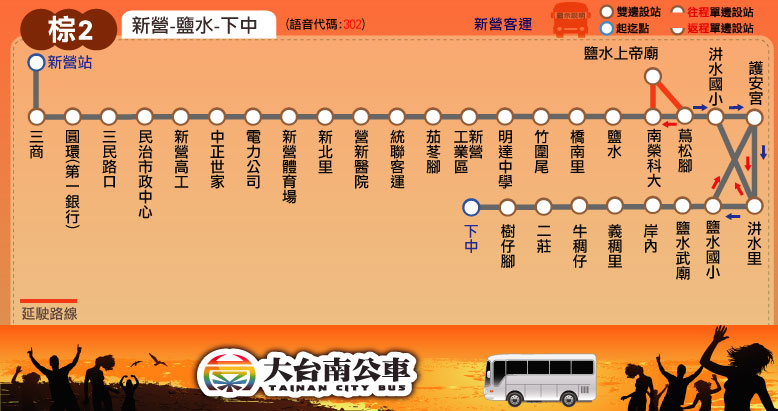
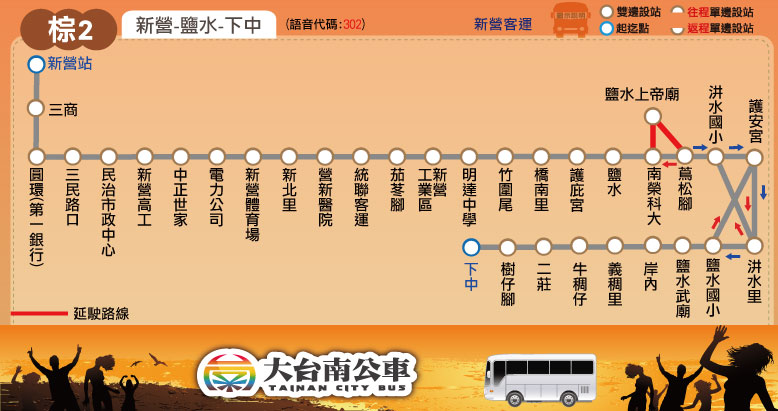
新增站位：棕1、棕2、棕3(增「護庇宮」)

diff --git a/route/fare_and_time/brown_2.js b/route/fare_and_time/brown_2.js
@@ -2,7 +2,7 @@ brown_2_interval_name = ["新營","茄苳腳","鹽水","鹽水<br />上帝廟","
 brown_2_interval_stop = [ // 2017.01.07 checked
 ["新營站","三商","圓環(第一銀行)","三民路口","民治市政中心","新營高工","中正世家","電力公司","新營體育場","新北里","營新醫院","統聯客運"], // 新營
 ["茄苳腳","新營工業區","明達中學"], // 茄苳腳
-["竹圍尾","橋南里","鹽水","南榮科大"], // 鹽水
+["竹圍尾","橋南里","護庇宮","鹽水","南榮科大"], // 鹽水
 ["鹽水上帝廟","蔦松腳"], // 鹽水上帝廟
 ["汫水國小","護安宮","汫水里"], // 汫水國小
 ["鹽水國小","鹽水武廟","岸內","義稠里","牛稠仔"], // 牛稠仔

diff --git a/route/fare_and_time/brown_3.js b/route/fare_and_time/brown_3.js
@@ -2,7 +2,7 @@ brown_3_interval_name = ["新營","茄苳腳","鹽水","太子宮","角帶里","
 brown_3_interval_stop = [ // 2015.09.14 checked
 ["新營站","三商","圓環(第一銀行)","三民路口","民治市政中心","新營高工","中正世家","電力公司","新營體育場","新北里","營新醫院","統聯客運"], // 新營
 ["茄苳腳","新營工業區","明達中學"], // 茄苳腳
-["竹圍尾","橋南里","鹽水","地政事務所","新太、四維路口"], // 鹽水
+["竹圍尾","橋南里","護庇宮","鹽水","地政事務所","新太、四維路口"], // 鹽水
 ["太子宮","太北里","南太子宮","太子國中"], // 太子宮
 ["角帶里"], // 角帶里
 ["姑爺"], // 姑爺

diff --git a/route/fare_and_time/brown_1.js b/route/fare_and_time/brown_1.js
@@ -2,7 +2,7 @@ brown_1_interval_name = ["新營","茄苳腳","鹽水","後寮","番子寮","孫
 brown_1_interval_stop = [ // 2017.12.08 checked
 ["新營站","三商","第一市場","中山路","圓環(第一銀行)","三民路口","齊普","新營漁市場","太子路口","統聯客運"], // 新營
 ["茄苳腳","新營工業區","明達中學"], // 茄苳腳
-["竹圍尾","橋南里","鹽水","地政事務所","月津國小","鹽水壽園"], // 鹽水
+["竹圍尾","橋南里","護庇宮","鹽水","地政事務所","月津國小","鹽水壽園"], // 鹽水
 ["後寮"], // 後寮
 ["番子寮"], // 番子寮
 ["孫厝寮","南孫厝寮"], // 孫厝寮

diff --git a/brown/brown_3-1.html b/brown/brown_3-1.html
@@ -18,7 +18,7 @@
 <script type="text/javascript">
 	block_header();
 	block_route_map(null);
-	block_route_info(route_interval,'新營客運','','里程計費','http://www.2384.com.tw/ebus/jsp/ajaxBus.jsp?pathId=1303&locale=zh_TW');
+	block_route_info(route_interval,'新營客運','','里程計費','http://www.2384.com.tw/ebus/jsp/ajaxBus.jsp?pathId=1810&locale=zh_TW');
 	block_fare(0, null);
 	block_time_schedule('新營','鐵線里','');
 	block_transfer(transfer_hsinyin);

diff --git a/TainanBusMap/show_map.php b/TainanBusMap/show_map.php
@@ -68,7 +68,7 @@
 			break;
 	}
 	if($branch_flag){
-		if( strcmp($route_name, 'yellow_6_1')!=0 && strcmp($route_name, 'yellow_11_1')!=0 && strcmp($route_name, 'yellow_14_1')!=0 && strcmp($route_name, 'yellow_12_2')!=0 && strcmp($route_name, 'red_3_1')!=0 && strcmp($route_name, 'orange_4_1')!=0 && strcmp($route_name, 'orange_10_1')!=0 && strcmp($route_name, 'green_20_1')!=0 ){ // y6-1 & r3-1 is independent map
+		if( strcmp($route_name, 'yellow_10_1')==0 || strcmp($route_name, 'yellow_12_1')==0 ){
 			$route_name = $str_sec[0].'_'.$str_sec[1]; // other branch is merged. e.g. y12-1 is contained in y12
 		}
 		$ch_name = $ch_name.'-'.$str_sec[2];
